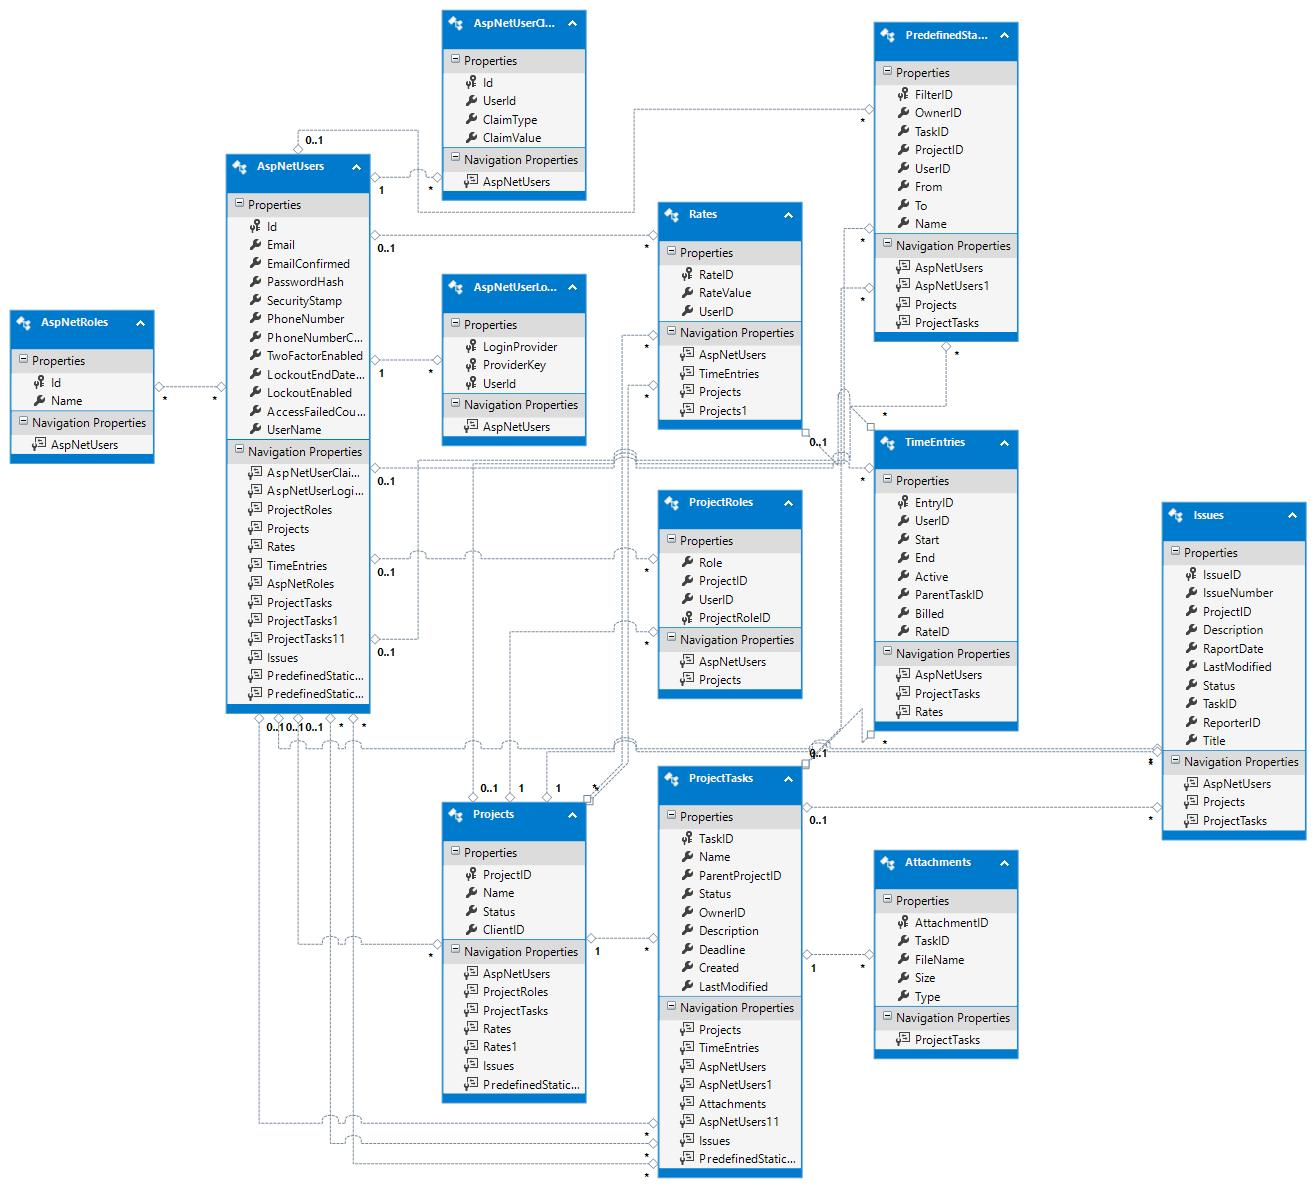
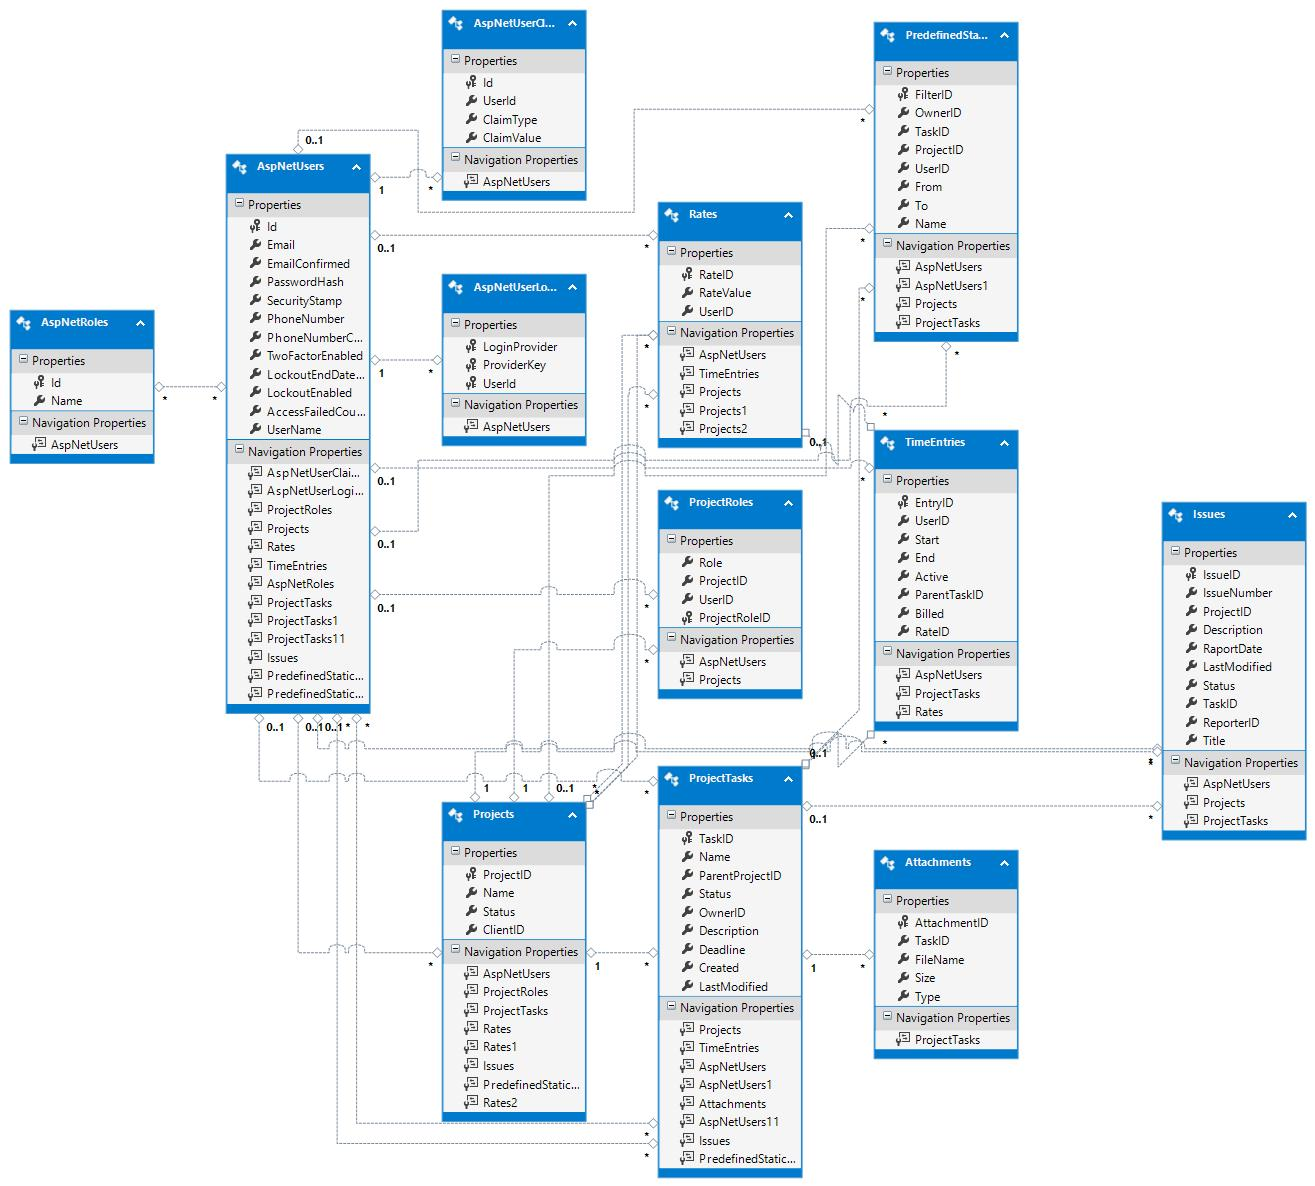
Removed unnecessary fields
- Issue TaskID
- TimeEntry: RateID, Billed
- Diagrams updated

diff --git a/LogMyWork/Models/IdentityModels.cs b/LogMyWork/Models/IdentityModels.cs
@@ -11,12 +11,12 @@ namespace LogMyWork.Models
     // You can add profile data for the user by adding more properties to your ApplicationUser class, please visit http://go.microsoft.com/fwlink/?LinkID=317594 to learn more.
     public class ApplicationUser : IdentityUser
     {
-        public virtual List<TimeEntry> UserEntries { get; set; }
+        public List<TimeEntry> UserEntries { get; set; }
 
-        public virtual List<ProjectTask> Tasks { get; set; }
+        public List<ProjectTask> Tasks { get; set; }
         [InverseProperty("Owner")]
-        public virtual List<ProjectTask> OwnedTasks { get; set; }
-        public virtual List<ProjectRole> ProjectRoles { get; set; }
+        public List<ProjectTask> OwnedTasks { get; set; }
+        public List<ProjectRole> ProjectRoles { get; set; }
         public async Task<ClaimsIdentity> GenerateUserIdentityAsync(UserManager<ApplicationUser> manager)
         {
             // Note the authenticationType must match the one defined in CookieAuthenticationOptions.AuthenticationType

diff --git a/LogMyWork/LogMyWork.Designer.cs b/LogMyWork/LogMyWork.Designer.cs
@@ -1,0 +1,10 @@
+// T4 code generation is enabled for model 'C:\Users\Kuba\Documents\Projects\LogMyWork\LogMyWork\LogMyWork.edmx'. 
+// To enable legacy code generation, change the value of the 'Code Generation Strategy' designer
+// property to 'Legacy ObjectContext'. This property is available in the Properties Window when the model
+// is open in the designer.
+
+// If no context and entity classes have been generated, it may be because you created an empty model but
+// have not yet chosen which version of Entity Framework to use. To generate a context class and entity
+// classes for your model, open the model in the designer, right-click on the designer surface, and
+// select 'Update Model from Database...', 'Generate Database from Model...', or 'Add Code Generation
+// Item...'.

diff --git a/LogMyWork/Models/TimeEntry.cs b/LogMyWork/Models/TimeEntry.cs
@@ -14,9 +14,9 @@ namespace LogMyWork.Models
         public DateTime Start { get; set; }
         public DateTime? End { get; set; }
         public bool Active { get; set; }
-        public bool Billed { get; set; }
-        public int? RateID { get; set; }
-        public Rate  Rate { get; set; }
+        //public bool Billed { get; set; }
+        //public int? RateID { get; set; }
+        //public Rate  Rate { get; set; }
         public int ParentTaskID { get; set; }
         [ForeignKey("ParentTaskID")]
         public ProjectTask ParentTask { get; set; }

diff --git a/LogMyWork/Models/Issue.cs b/LogMyWork/Models/Issue.cs
@@ -20,6 +20,5 @@ namespace LogMyWork.Models
         public DateTime LastModified { get; set; }
         public IssueStatus Status { get; set; }
         public ProjectTask Task { get; set; }
-        public int? TaskID { get; set; }
     }
 }

diff --git a/LogMyWork/Controllers/StaticFiltersController.cs b/LogMyWork/Controllers/StaticFiltersController.cs
@@ -14,6 +14,7 @@ using Commons.Time;
 
 namespace LogMyWork.Controllers
 {
+    [Authorize]
     public class StaticFiltersController : Controller
     {
         private LogMyWorkContext db = new LogMyWorkContext();

diff --git a/LogMyWork/Controllers/IssuesController.cs b/LogMyWork/Controllers/IssuesController.cs
@@ -15,6 +15,7 @@ using LogMyWork.Consts;
 
 namespace LogMyWork.Controllers
 {
+    [Authorize]
     public class IssuesController : Controller
     {
         private LogMyWorkContext db = new LogMyWorkContext();
